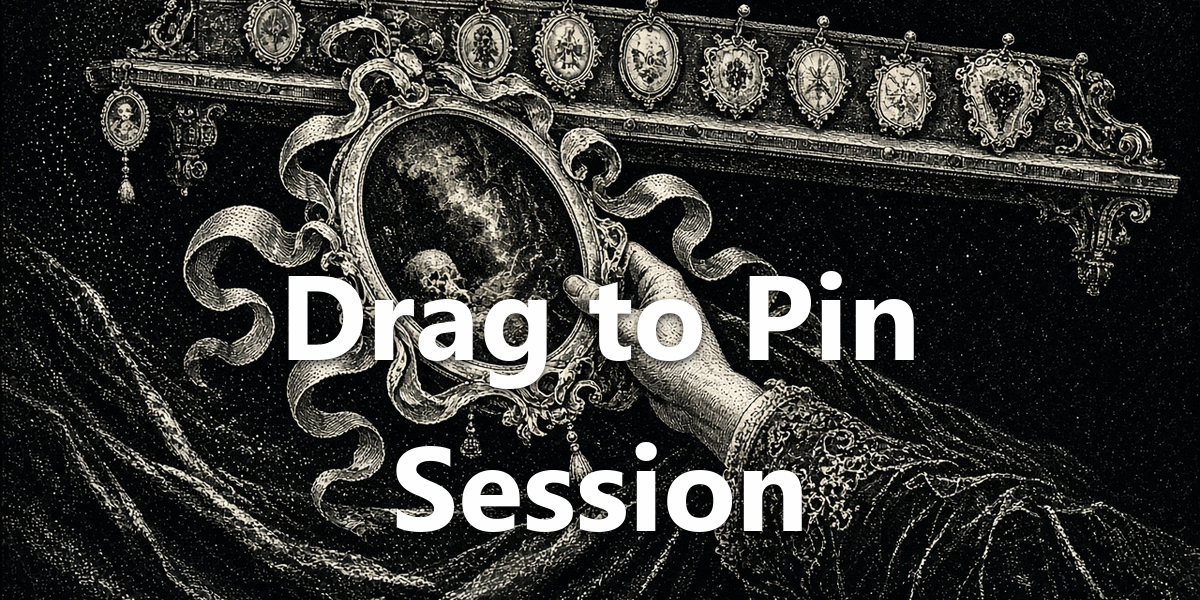
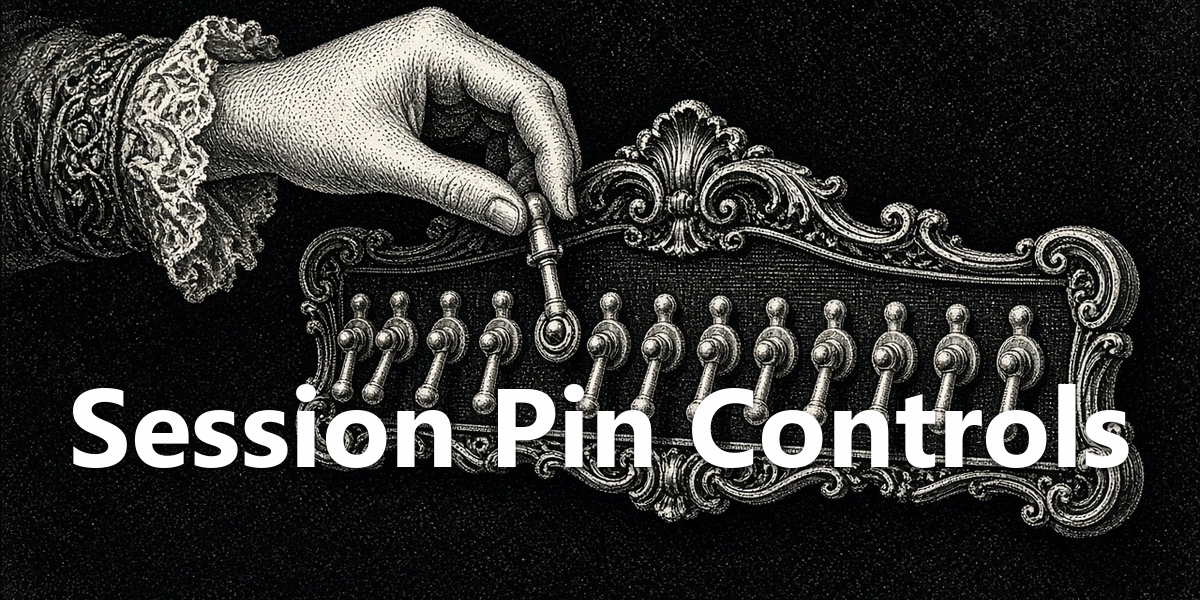
feat(drag-to-pin-session): regenerate catalog hero card

diff --git a/public/drag-to-pin-session/README.md b/public/drag-to-pin-session/README.md
@@ -8,7 +8,9 @@
   </p>
 </div>
 
-
+<div align="center">
+  <img src="docs/hero.png" width="100%" alt="Session Pin Controls" />
+</div>
 
 ## What You Can Do
 
